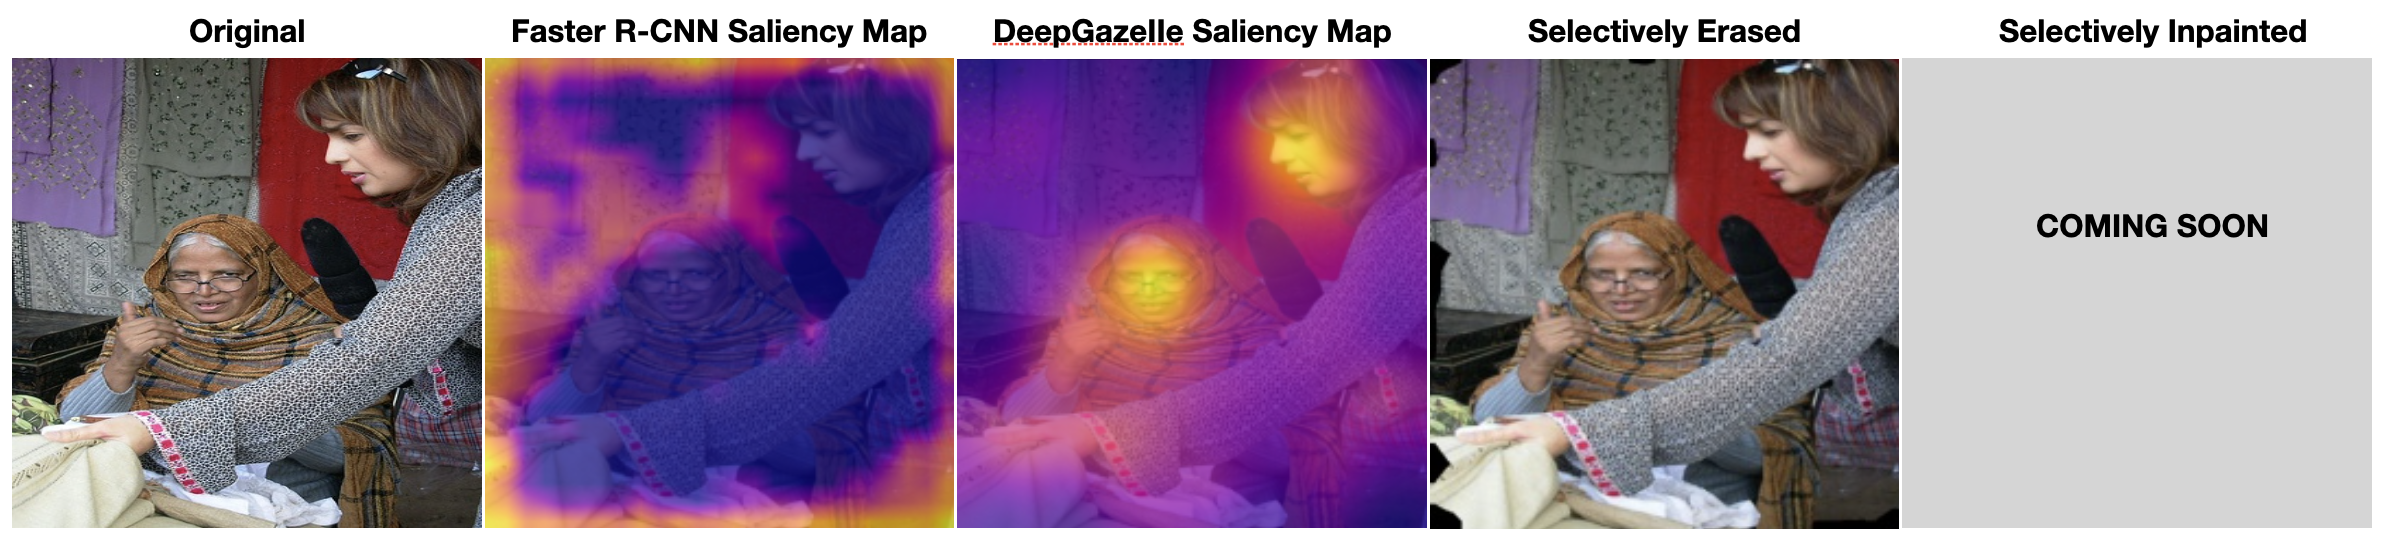
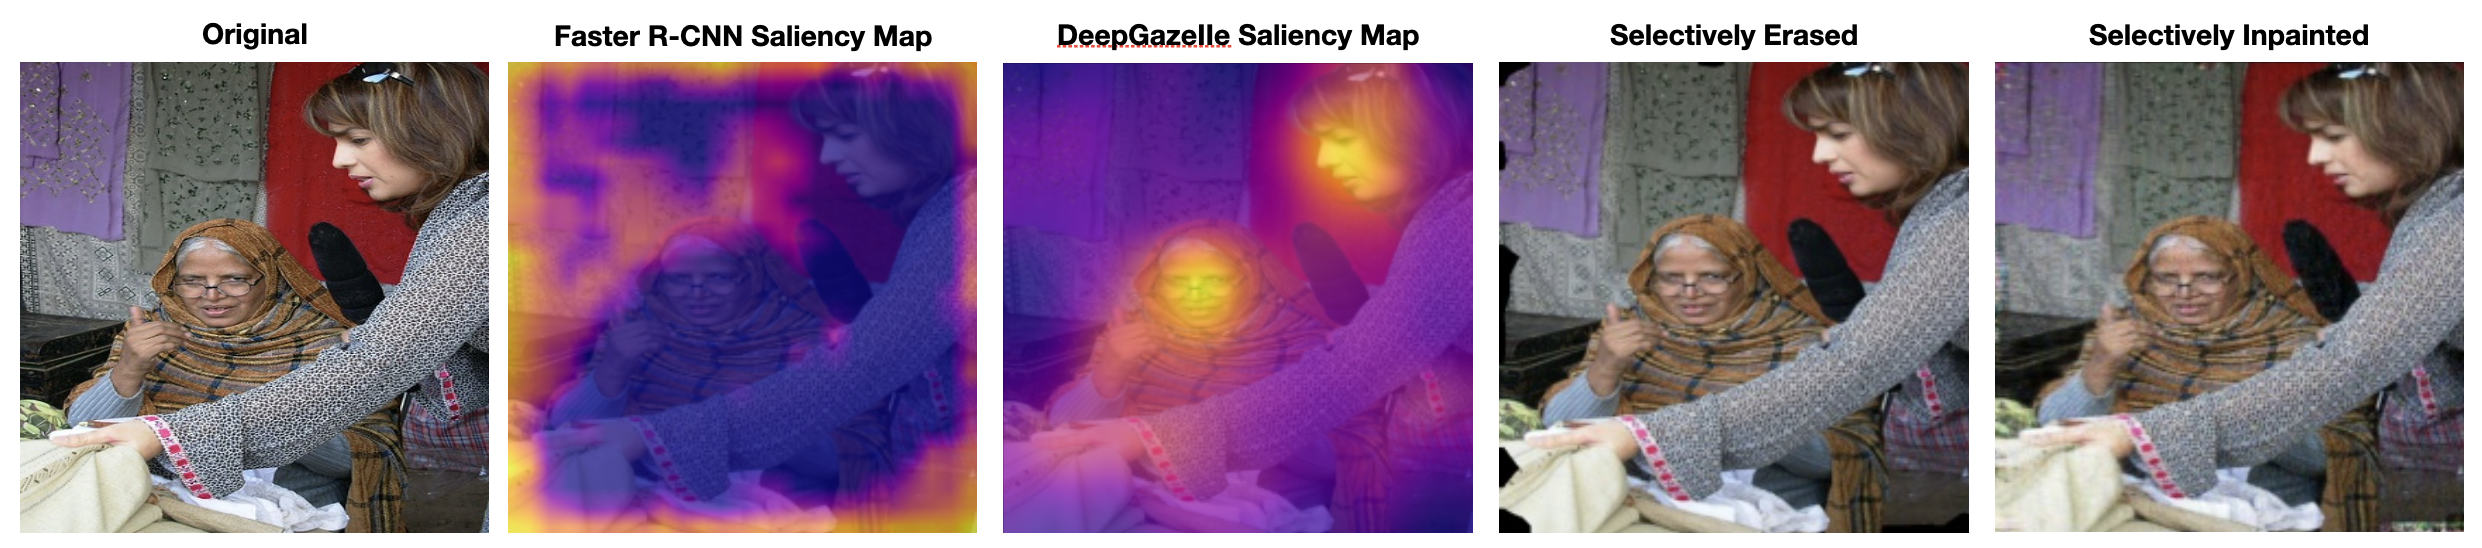
updates

diff --git a/_posts/2022-04-20-vlr-project.md b/_posts/2022-04-20-vlr-project.md
@@ -78,9 +78,10 @@ _styles: >
 
 ## Introduction
 
+Artificial intelligence (AI) is increasingly being built for and deployed in high-stakes domains such as detecting cancer from medical imagery [**CITE**] , disaster relief efforts [**CITE**], and self-driving cars [**CITE**].  
 Deep neural networks have made significant advances in wide-ranging tasks including image classification, segmentation, in-painting, captioning, object detection, action recognition, deep fakes, etc. However, deep neural networks often lack reliability in the real world because they are "black-boxes" and can depend on spurious input features that are not essential to the true label. 
 
-Just include the motivation and the problem in the introduction.
+
 
 ### Research Questions & Contributions
 
@@ -113,13 +114,13 @@ Add techniques here about how people have tried to modify models or loss or what
 
 Brief introduction about what we did
 
-### Empirical Study
+### Empirical Study [![Open In Colab](https://colab.research.google.com/assets/colab-badge.svg)](https://colab.research.google.com/drive/1IpOw3sfKtz_foSvRDy0nk7JyfdfDgZ23?usp=sharing)
 
 We conducted an empirical study to gain an understanding of which state-of-the-art object detection models currently generate saliency maps similar to human attention. We evaluated and compared saliency maps generated by seven different object detection models available on PyTorch to human attention maps and predicted human eye-fixations. To obtain the human attention maps, we used the human attention maps for PASCAL2012 from the [ML-Interpretability-Evaluation-Benchmark](https://github.com/SinaMohseni/ML-Interpretability-Evaluation-Benchmark) <d-cite key="mohseni2020benchmark"></d-cite>. To obtain predicted human eye-fixations, we used the DeepGazeIIE saliency prediction model <d-cite key="DBLP:journals/corr/abs-2105-12441"></d-cite>. The specific state-of-the-art object detection models we evaluated and compared to the human attention maps and predicted eye-fixations include YOLOV5, Faster R-CNN with a ResNet-50 backbone, SSD with a VGG backbone, SSD with a MobileNet background, Mask R-CNN, RetinaNet, and DETR. 
 
 **Experiment Details**
 
-We generated a saliency map for every single image that had an associated human attention map (ground truth saliency) from the ML-Interpretability-Evaluation-Benchmark. Each image was resized to $$
+We generated a saliency map for every single image that had an associated human attention map (ground truth saliency) from the ML-Interpretability-Evaluation-Benchmark <d-cite key="mohseni2020benchmark"></d-cite> and for every image in the MIT1003 dataset <d-cite key="mit-saliency-benchmark"></d-cite>. Each image was resized to $$
 512$$ x $$512
 $$ 
 before being evaluated on by the model. The saliency map for the object detection model is generated using the EigenCAM method (<d-cite key="DBLP:journals/corr/abs-2008-00299"></d-cite>) from the PyTorch library for CAM methods <d-cite key="jacobgilpytorchcam"></d-cite>. Once the saliency map from the object detection model is generated, the mean absolute error (MAE) is calculated between the generated saliency map and the human attention map. The MAE is also calculated between the generated saliency map and the predicted human eye-fixations (produced from the DeepGazeIIE model). While the MAE to some extent can reveal how similar the saliency maps are, we also calculate intersection over union (IoU) between the top $$90\%$$ salient pixels of the generated saliency map and the top $$90\%$$ salient pixels from the human attention map/predicted human eye-fixation. Calculating the IoU will help reveal if the most salient region identify by the model and the humans align <d-cite key="DBLP:journals/corr/abs-2107-09234"></d-cite>.
@@ -131,27 +132,29 @@ Data augmentation for object detection is slightly more complex than data augmen
 
 We designed three different data augmentation techniques: *selective erasing*, *selective inpainting*, and *non-trivial transformations*. Below, we define and provide examples of each of these data augmentations. 
 
-**Selective Erasing** [![Open In Colab](https://colab.research.google.com/assets/colab-badge.svg)](#)
+**Selective Erasing** [![Open In Colab](https://colab.research.google.com/assets/colab-badge.svg)](https://colab.research.google.com/drive/1xLAlGZHgBSIOXfWSuImUpdHBHngYmpmy?usp=sharing)
 
 
 
-The goal of selective erasing is to get rid of potential spurious patterns, patterns that the model has learned to associate with a label even though it does not represent that label [*CITATION*]. In order to augment images using selective erasing, we send the image through Faster R-CNN and use EigenCAM to generate the saliency map. We then send the image through the DeepGazeIIE model to generated the predicted eye-fixations map. We calculate the mean absolute error (MAE) between the two saliency maps. If the MAE is below 0.1, meaning the two saliency maps are significantly different from one another, then we erase the top 2.5% salient pixels identified from the Faster R-CNN saliency map from the original image. An example of this process and the outcomes from each step are shown in Figure 1
+The goal of selective erasing is to get rid of potential spurious patterns, patterns that the model has learned to associate with a label even though it does not represent that label [*CITATION*]. In order to augment images using selective erasing, we send the image through Faster R-CNN and use EigenCAM to generate the saliency map from layer 4 in the backbone. We then send the image through the DeepGazeIIE model to generated the predicted eye-fixations map. We calculate the intersection over union (IoU) between the two saliency maps. If the IoU is below 0.1, meaning the two saliency maps are significantly different from one another, then we erase the top 2.5% salient pixels identified from the Faster R-CNN saliency map from the original image. An example of this process and the outcomes from each step are shown in Figure 1. We chose the top 2.5% because these pixels would most likely make up the core region of a potentially spurious region. 
 
 <figure>
 <img src="/assets/img/selective_augment.png" alt="dataset augmentations" width="100%"/>
-<figcaption>Figure 1: Example of how the selective erasing and selective inpainting augmentation techniques work. If the MAE between the Faster R-CNN saliency map and DeepGaze saliency map is less than 0.1 than erase the top 2.5% salient pixels from the original image. Using an untrained neural network, inpaint the pixels that were erased.</figcaption>
+<figcaption>Figure 1: Example of how the selective erasing and selective inpainting augmentation techniques work. If the IoU between the Faster R-CNN saliency map and DeepGaze saliency map is less than 0.1 than erase the top 2.5% salient pixels from the original image. Using an untrained neural network, inpaint the pixels that were erased. In this image, pixels along the border were most salient so they were erased and then inpainted. </figcaption>
 </figure>
 
 
 **Selective Inpainting**
-[![Open In Colab](https://colab.research.google.com/assets/colab-badge.svg)](#)
+[![Open In Colab](https://colab.research.google.com/assets/colab-badge.svg)](https://colab.research.google.com/drive/1oK3MZeY8cpVhd5jH-7C-yMj4N0igMmvt?usp=sharing)
 
 
 The selective inpainting augmentation process follows the same steps as selective erasing and then inpaints the erased image. To inpaint the top 2.5% salient pixels as denoted by Faster R-CNN, we send the selective erased image and mask into an untrained neural network and optimize on learning the pixels that minimize the chosen loss function. This idea is presented in the Deep Image Prior Paper <d-cite key="DBLP:journals/corr/abs-1711-10925"></d-cite>. We used $4001$ iterations with an untrained ResNet to inpaint the erased regions in each image. 
 
 
-**Non-trivial Transformations** [![Open In Colab](https://colab.research.google.com/assets/colab-badge.svg)](#)
+**Non-trivial Transformations** [![Open In Colab](https://colab.research.google.com/assets/colab-badge.svg)](https://drive.google.com/file/d/1z158yrypCbLhpOGYCzsYJGXJIlhrDTW7/view?usp=sharing)
 
+
+Add details about this augmentation technique here.
 
 <figure>
 <img src="/assets/img/non-trivial_firstpart.png" alt="dataset augmentations non-trivial" width="100%"/>
@@ -228,6 +231,9 @@ The MAE (mean absolute error) is preferred to be close to 0.0; the IoU (intersec
 | Mask R-CNN   | $0.1254$       | $0.2234$    |
 | DETR   | $0.1519$      | $0.2100$     |
 
+
+We identify a top preforming model in terms of MAE and IoU and use that model in our main experiment. We selected the top performing model for our main experiment to focus on the impact of the augmentations for one model instead of comparing the impact of augmentations across different models. Since Faseter R-CNN performed the best for MAE on PASCALVOC2012, we use this model in our main experiment. We wanted to use SSD-VGG16 as well, but we had different modifying the architecture to fine-tune on PASCALVOC2012, so we did not use this model in our main experiment.
+
 ### Main Experiment
 
 Show the results from the fine-tuning or training the models here. 
@@ -259,6 +265,8 @@ The pre-trained models we used in our empirical study were from the PyTorch torc
 ## Future Work & Conclusion
 
 Future work should explore these questions for image classification instead of object detection. Other future works could try instead of doing augmentations could create a novel function that incorporates the MAE between the saliency map generated from the model and the saliency map of the DeepGazeIIE or similar saliency prediction model into the loss function to basically train the model to focus on semantically meaningful regions of the image with ground truth labels.
+
+Future work should tune the threshold for selective erasing/inpainting to optimize on amount of pixels that are deleted/inpainted.
 
 ## Code
 
